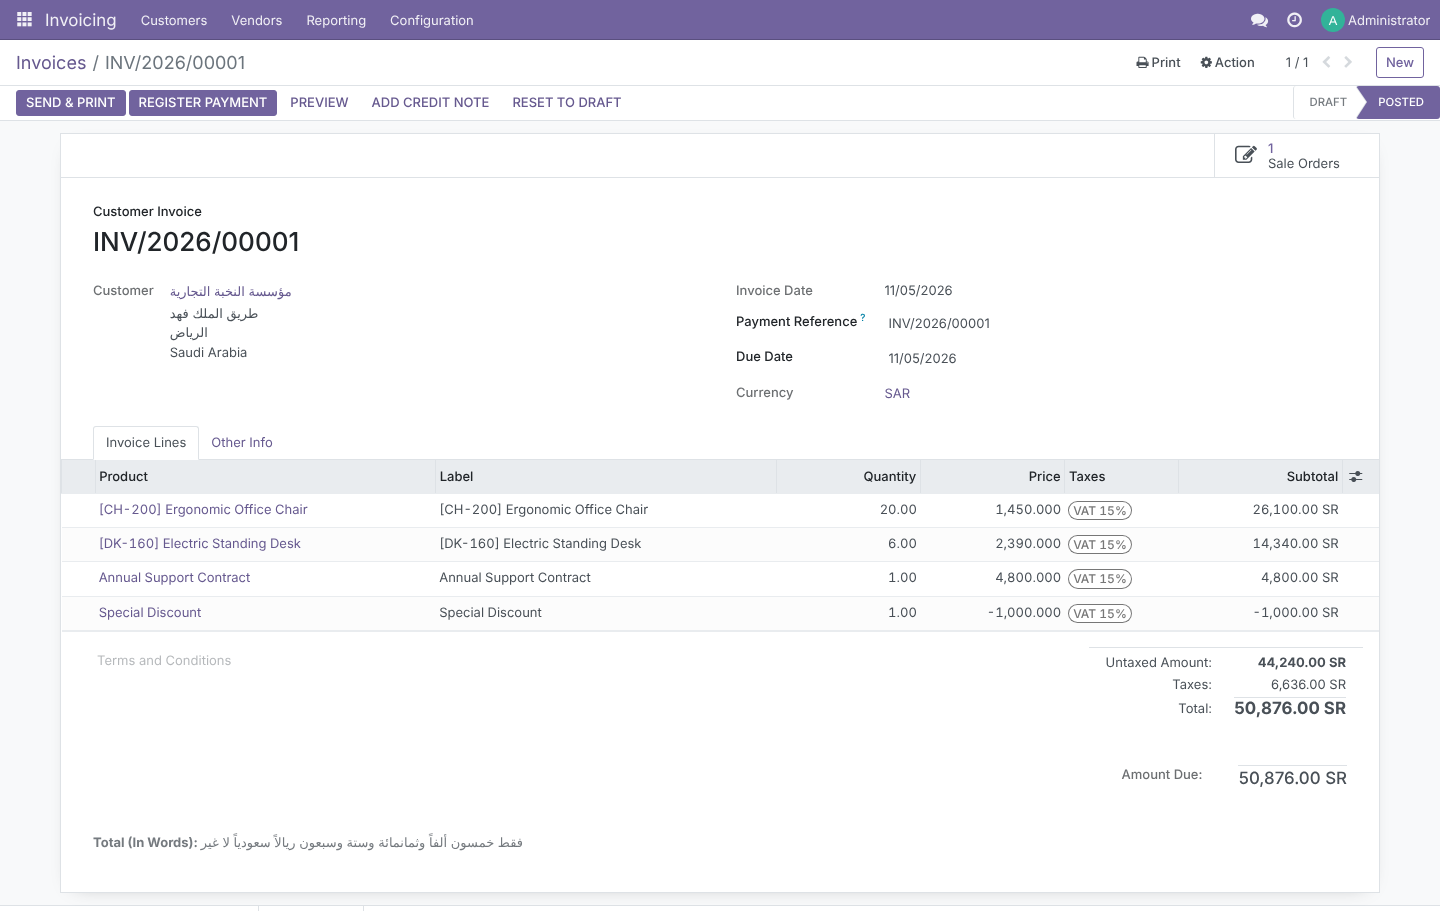
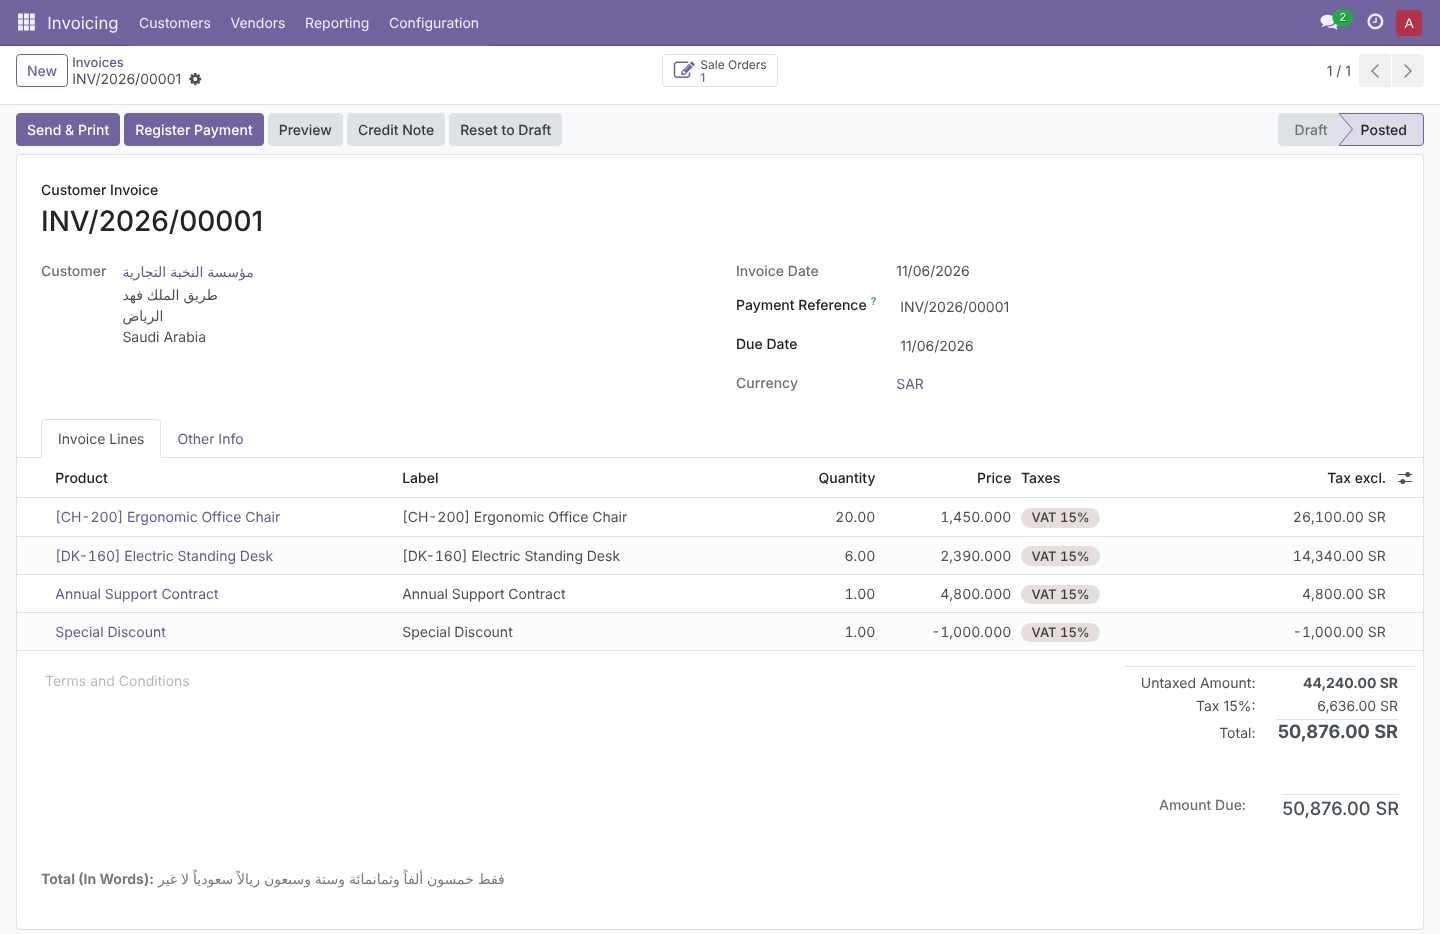
[MIG] amount_in_words_multilingual: migrate to Odoo 17.0
Claude-Session: https://claude.ai/code/session_0163j7pRaP16RF8QYfmxpBnW

diff --git a/amount_in_words_multilingual/static/description/index.html b/amount_in_words_multilingual/static/description/index.html
@@ -1,4 +1,4 @@
-<!-- Odoo Apps description page for amount_in_words_multilingual (Odoo 16.0). Inline styles only: apps.odoo.com strips <style> and <script> blocks. -->
+<!-- Odoo Apps description page for amount_in_words_multilingual (Odoo 17.0). Inline styles only: apps.odoo.com strips <style> and <script> blocks. -->
 <section style="max-width:1120px;margin:0 auto;padding:0 16px;font-family:-apple-system,BlinkMacSystemFont,'Segoe UI',Roboto,'Helvetica Neue',Arial,sans-serif;color:#2b2b33;">
 
 <!-- ============================== HERO ============================== -->
@@ -7,9 +7,9 @@
   <h1 style="font-size:40px;line-height:1.15;font-weight:700;margin:0 0 14px;color:#ffffff;">Amount in Words &ndash; English &amp; Arabic</h1>
   <p style="font-size:19px;line-height:1.55;max-width:760px;margin:0 0 24px;color:#ffffff;opacity:.95;">Every quotation, sales order and customer invoice shows its total spelled out in the customer&rsquo;s own language, on screen and on the PDF. Arabic follows real grammar: dual, plural and accusative forms, gender agreement and &ldquo;&#1601;&#1602;&#1591; &hellip; &#1604;&#1575; &#1594;&#1610;&#1585;&rdquo;.</p>
   <div>
-    <span style="display:inline-block;border:1px solid rgba(255,255,255,.7);border-radius:20px;padding:6px 14px;margin:0 8px 8px 0;font-size:14px;">Odoo 16.0</span>
+    <span style="display:inline-block;border:1px solid rgba(255,255,255,.7);border-radius:20px;padding:6px 14px;margin:0 8px 8px 0;font-size:14px;">Odoo 17.0</span>
     <span style="display:inline-block;border:1px solid rgba(255,255,255,.7);border-radius:20px;padding:6px 14px;margin:0 8px 8px 0;font-size:14px;">Community &amp; Enterprise</span>
-    <span style="display:inline-block;border:1px solid rgba(255,255,255,.7);border-radius:20px;padding:6px 14px;margin:0 8px 8px 0;font-size:14px;">33 automated tests</span>
+    <span style="display:inline-block;border:1px solid rgba(255,255,255,.7);border-radius:20px;padding:6px 14px;margin:0 8px 8px 0;font-size:14px;">35 automated tests</span>
     <span style="display:inline-block;border:1px solid rgba(255,255,255,.7);border-radius:20px;padding:6px 14px;margin:0 8px 8px 0;font-size:14px;">Arabic translation (ar_001)</span>
     <span style="display:inline-block;border:1px solid rgba(255,255,255,.7);border-radius:20px;padding:6px 14px;margin:0 8px 8px 0;font-size:14px;">Technical name: amount_in_words_multilingual</span>
     <span style="display:inline-block;border:1px solid rgba(255,255,255,.7);border-radius:20px;padding:6px 14px;margin:0 8px 8px 0;font-size:14px;">LGPL-3</span>
@@ -29,10 +29,10 @@
 <p style="font-size:16px;line-height:1.6;color:#555;margin:0 0 18px;">In Saudi Arabia and the wider Gulf, the total in words is expected on commercial documents, and Arabic customers expect it in correct Arabic, not a word-for-word translation.</p>
 <div style="display:flex;flex-wrap:wrap;margin:0 -10px;">
   <div style="flex:1 1 440px;margin:10px;border:1px solid #f1d6d6;background:#fff8f8;border-radius:14px;padding:24px 26px;">
-    <h3 style="font-size:19px;font-weight:700;color:#b33939;margin:0 0 12px;">In standard Odoo 16</h3>
+    <h3 style="font-size:19px;font-weight:700;color:#b33939;margin:0 0 12px;">In standard Odoo 17</h3>
     <ul style="font-size:15px;line-height:1.65;margin:0;padding-left:20px;color:#3a3a42;">
-      <li>The standard quotation, order and invoice forms and PDFs have <b>no total in words</b>.</li>
-      <li>The currency method <code>amount_to_text</code> follows the <b>logged-in user&rsquo;s language</b>, not the customer&rsquo;s.</li>
+      <li>Quotations and sales orders have <b>no total in words</b>; invoices only get a small printed line through <b>Total amount of invoice in letters</b>.</li>
+      <li>That line is <b>not shown on the invoice form</b>, so nobody checks it before the PDF goes out.</li>
       <li>It appends one fixed unit label, so Arabic gets <b>no dual, plural or accusative</b> forms (&#1585;&#1610;&#1575;&#1604;&#1575;&#1606; / &#1585;&#1610;&#1575;&#1604;&#1575;&#1578; / &#1585;&#1610;&#1575;&#1604;&#1575;&#1611;).</li>
       <li>Numbers do not agree with <b>feminine subunits</b> such as &#1607;&#1604;&#1604;&#1577; or &#1576;&#1610;&#1587;&#1577;.</li>
       <li>Adding it yourself means custom <b>QWeb and RTL styling</b> on two report templates.</li>
@@ -42,7 +42,7 @@
   <div style="flex:1 1 440px;margin:10px;border:1px solid #cfe7e7;background:#f4fbfb;border-radius:14px;padding:24px 26px;">
     <h3 style="font-size:19px;font-weight:700;color:#017E84;margin:0 0 12px;">With this module</h3>
     <ul style="font-size:15px;line-height:1.65;margin:0;padding-left:20px;color:#3a3a42;">
-      <li><b>Total (In Words)</b> under the totals of every sales order and customer invoice, on screen and on the PDF.</li>
+      <li><b>Total (In Words)</b> under the totals of every sales order and customer invoice, <b>on screen</b> and on the PDF.</li>
       <li>Language taken from the <b>customer&rsquo;s profile</b>, or forced to English or Arabic per company.</li>
       <li>Every currency has <b>singular, dual, plural and accusative</b> Arabic wording, editable on the currency.</li>
       <li>Full <b>gender agreement</b>: &#1579;&#1604;&#1575;&#1579;&#1577; &#1585;&#1610;&#1575;&#1604;&#1575;&#1578; but &#1579;&#1604;&#1575;&#1579; &#1607;&#1604;&#1604;&#1575;&#1578;, &#1573;&#1581;&#1583;&#1609; &#1593;&#1588;&#1585;&#1577; &#1607;&#1604;&#1604;&#1577;.</li>
@@ -64,7 +64,7 @@
 
 <!-- ============================== FEATURES ============================== -->
 <h2 style="font-size:28px;font-weight:700;margin:44px 0 6px;color:#2b2b33;">Features</h2>
-<p style="font-size:16px;line-height:1.6;color:#555;margin:0;">Screenshots come from an Odoo 16 Community database with demo data created for this page: the company <b>Al Noor Trading Co.</b> (Saudi riyal) sells office furniture to an English-speaking customer in Dammam, an Arabic-speaking customer in Riyadh, a Kuwaiti customer billed in dinars and a German customer billed in euros.</p>
+<p style="font-size:16px;line-height:1.6;color:#555;margin:0;">Screenshots come from an Odoo 17 Community database with demo data created for this page: the company <b>Al Noor Trading Co.</b> (Saudi riyal) sells office furniture to an English-speaking customer in Dammam, an Arabic-speaking customer in Riyadh, a Kuwaiti customer billed in dinars and a German customer billed in euros.</p>
 
 <div style="margin:44px 0 0;">
   <div style="font-size:13px;font-weight:700;color:#017E84;letter-spacing:1px;text-transform:uppercase;">Where to find it</div>
@@ -154,6 +154,13 @@
   <img src="aiw_11_settings.png" alt="Amount in Words block in the Invoicing settings" style="width:100%;max-width:1000px;border:1px solid #e1e1e6;border-radius:10px;box-shadow:0 6px 24px rgba(30,30,60,.10);"/>
 </div>
 
+<div style="margin:44px 0 0;">
+  <div style="font-size:13px;font-weight:700;color:#017E84;letter-spacing:1px;text-transform:uppercase;">New in the Odoo 17 version</div>
+  <h3 style="font-size:23px;font-weight:700;margin:4px 0 8px;">Works with Odoo 17&rsquo;s &ldquo;Total amount of invoice in letters&rdquo;</h3>
+  <p style="font-size:15px;line-height:1.6;color:#555;margin:0 0 14px;">Odoo 17 added its own <b>Total amount of invoice in letters</b> option under <b>Customer Invoices</b>. The module takes over that same field, so Odoo&rsquo;s line also prints the customer-language, grammatically correct text. When both options are on, the invoice shows the words <b>once</b>: the module&rsquo;s full-width band, and Odoo&rsquo;s line is hidden. Turn off <b>Print on Customer Invoices</b> and Odoo&rsquo;s own line comes back, still with the module&rsquo;s wording.</p>
+  <div style="background:#f4fbfb;border-left:4px solid #017E84;border-radius:8px;padding:16px 20px;font-size:15px;line-height:1.6;"><b>Layout:</b> in Odoo 17 the invoice totals sit in a narrow right-hand column, so the band is placed below that column, across the full width of the page, as shown in the Arabic invoice above.</div>
+</div>
+
 <!-- ============================== ARABIC GRAMMAR ============================== -->
 <h2 style="font-size:28px;font-weight:700;margin:48px 0 6px;color:#2b2b33;">Arabic, done properly</h2>
 <p style="font-size:16px;line-height:1.6;color:#555;margin:0 0 18px;">The counted noun (&#1575;&#1604;&#1578;&#1605;&#1610;&#1610;&#1586;) changes with the number. The module picks the form from the last two digits, exactly as a person would write it.</p>
@@ -209,16 +216,16 @@
 <h2 style="font-size:28px;font-weight:700;margin:48px 0 6px;color:#2b2b33;">Technical details</h2>
 <table style="width:100%;border-collapse:collapse;font-size:15px;margin-top:12px;table-layout:fixed;">
   <tbody>
-    <tr style="border-bottom:1px solid #eee;"><td style="padding:10px 14px;width:30%;color:#777;vertical-align:top;">Odoo version</td><td style="padding:10px 14px;overflow-wrap:anywhere;">16.0, Community and Enterprise (module version 16.0.1.0.0)</td></tr>
+    <tr style="border-bottom:1px solid #eee;"><td style="padding:10px 14px;width:30%;color:#777;vertical-align:top;">Odoo version</td><td style="padding:10px 14px;overflow-wrap:anywhere;">17.0, Community and Enterprise (module version 17.0.1.0.0)</td></tr>
     <tr style="border-bottom:1px solid #eee;background:#fafafa;"><td style="padding:10px 14px;width:30%;color:#777;vertical-align:top;">Depends on</td><td style="padding:10px 14px;overflow-wrap:anywhere;"><code>sale</code>, <code>account</code></td></tr>
     <tr style="border-bottom:1px solid #eee;"><td style="padding:10px 14px;width:30%;color:#777;vertical-align:top;">Python dependency</td><td style="padding:10px 14px;overflow-wrap:anywhere;">None. The English and Arabic engine is pure Python inside the module; other languages use <code>num2words</code>, which Odoo already requires.</td></tr>
     <tr style="border-bottom:1px solid #eee;background:#fafafa;"><td style="padding:10px 14px;width:30%;color:#777;vertical-align:top;">Menus</td><td style="padding:10px 14px;overflow-wrap:anywhere;">No new menus; a new tab on <b>Currencies</b> and a block on the order and invoice forms</td></tr>
     <tr style="border-bottom:1px solid #eee;"><td style="padding:10px 14px;width:30%;color:#777;vertical-align:top;">Settings</td><td style="padding:10px 14px;overflow-wrap:anywhere;">Invoicing &rsaquo; Configuration &rsaquo; Settings &rsaquo; Amount in Words</td></tr>
-    <tr style="border-bottom:1px solid #eee;background:#fafafa;"><td style="padding:10px 14px;width:30%;color:#777;vertical-align:top;">Reports</td><td style="padding:10px 14px;overflow-wrap:anywhere;">Inherits <code>sale.report_saleorder_document</code> and <code>account.report_invoice_document</code> (after <code>div#total</code>)</td></tr>
-    <tr style="border-bottom:1px solid #eee;"><td style="padding:10px 14px;width:30%;color:#777;vertical-align:top;">Models</td><td style="padding:10px 14px;overflow-wrap:anywhere;">New abstract <code>amount.words.mixin</code>; extends <code>sale.order</code>, <code>account.move</code>, <code>res.currency</code>, <code>res.company</code>, <code>res.config.settings</code></td></tr>
+    <tr style="border-bottom:1px solid #eee;background:#fafafa;"><td style="padding:10px 14px;width:30%;color:#777;vertical-align:top;">Reports</td><td style="padding:10px 14px;overflow-wrap:anywhere;">Inherits <code>sale.report_saleorder_document</code> (after <code>div#total</code>) and <code>account.report_invoice_document</code> (after <code>div#right-elements</code>; hides Odoo&rsquo;s own words line when the band is printed)</td></tr>
+    <tr style="border-bottom:1px solid #eee;"><td style="padding:10px 14px;width:30%;color:#777;vertical-align:top;">Models</td><td style="padding:10px 14px;overflow-wrap:anywhere;">New abstract <code>amount.words.mixin</code>; extends <code>sale.order</code>, <code>account.move</code> (replaces the computation of Odoo&rsquo;s own <code>amount_total_words</code>), <code>res.currency</code>, <code>res.company</code>, <code>res.config.settings</code></td></tr>
     <tr style="border-bottom:1px solid #eee;background:#fafafa;"><td style="padding:10px 14px;width:30%;color:#777;vertical-align:top;">Public method</td><td style="padding:10px 14px;overflow-wrap:anywhere;"><code>res.currency.amount_to_words_multilingual(amount, lang=None, wrap=True)</code>, usable from your own reports</td></tr>
     <tr style="border-bottom:1px solid #eee;"><td style="padding:10px 14px;width:30%;color:#777;vertical-align:top;">Translations</td><td style="padding:10px 14px;overflow-wrap:anywhere;">Arabic (<code>ar_001</code>), plus a <code>.pot</code> template</td></tr>
-    <tr style="border-bottom:1px solid #eee;background:#fafafa;"><td style="padding:10px 14px;width:30%;color:#777;vertical-align:top;">Automated tests</td><td style="padding:10px 14px;overflow-wrap:anywhere;">33 <code>TransactionCase</code> tests: 14 on the engine (English and Arabic grammar, rounding, 9 currencies, overrides, fallbacks) and 19 on documents (customer language, line and total discounts, tax-included prices, both cash-rounding strategies, credit notes, live form updates, rendered reports and the Arabic label)</td></tr>
+    <tr style="border-bottom:1px solid #eee;background:#fafafa;"><td style="padding:10px 14px;width:30%;color:#777;vertical-align:top;">Automated tests</td><td style="padding:10px 14px;overflow-wrap:anywhere;">35 <code>TransactionCase</code> tests: 14 on the engine (English and Arabic grammar, rounding, 9 currencies, overrides, fallbacks) and 21 on documents (customer language, line and total discounts, tax-included prices, both cash-rounding strategies, credit notes, live form updates, rendered reports, the Arabic label, and the interplay with Odoo 17&rsquo;s own words line)</td></tr>
     <tr style="border-bottom:1px solid #eee;"><td style="padding:10px 14px;width:30%;color:#777;vertical-align:top;">License</td><td style="padding:10px 14px;overflow-wrap:anywhere;">LGPL-3</td></tr>
   </tbody>
 </table>

diff --git a/amount_in_words_multilingual/tests/test_amount_words_documents.py b/amount_in_words_multilingual/tests/test_amount_words_documents.py
@@ -133,7 +133,8 @@ class TestAmountWordsDocuments(AccountTestInvoicingCommon):
         self.assertEqual(so.amount_total_words, 'فقط ريال سعودي واحد وثمانون هللة لا غير')
 
     def test_so_form_onchange_updates_words_live(self):
-        self.env.user.groups_id += self.env.ref('product.group_discount_per_so_line')
+        self.env.user.groups_id += self.env.ref('product.group_discount_per_so_line') \
+            + self.env.ref('product.group_product_pricelist')
         with Form(self.env['sale.order']) as so_form:
             so_form.partner_id = self.partner_ar
             so_form.pricelist_id = self.pricelist_sar
@@ -280,3 +281,26 @@ class TestAmountWordsDocuments(AccountTestInvoicingCommon):
         html = self._render('sale.action_report_saleorder', so_ar)
         self.assertIn('الإجمالي كتابةً:', html)
         self.assertNotIn('Total (In Words):', html)
+
+    # ------------------------------------------------------------------
+    # Odoo 17: standard "Total amount of invoice in letters" setting
+    # ------------------------------------------------------------------
+    def test_core_v17_field_uses_multilingual_engine(self):
+        inv = self._create_invoice(self.partner_ar, [{'price': 1000.0}])
+        self.assertEqual(inv._fields['amount_total_words'].string, 'Total (In Words)')
+        self.assertEqual(inv.amount_total_words, 'فقط ألف ومائة وخمسون ريالاً سعودياً لا غير')
+
+    def test_core_v17_letters_setting_not_printed_twice(self):
+        inv = self._create_invoice(self.partner_en, [{'price': 1000.0}])
+        inv.action_post()
+        words = 'One Thousand One Hundred and Fifty Saudi Riyals Only'
+        self.company.display_invoice_amount_total_words = True
+        # both enabled: our block only
+        html = self._render('account.account_invoices', inv)
+        self.assertEqual(html.count(words), 1)
+        self.assertNotIn('Total amount in words', html)
+        # ours disabled: Odoo's own line prints, with our wording
+        self.company.amount_words_on_invoice_report = False
+        html = self._render('account.account_invoices', inv)
+        self.assertEqual(html.count(words), 1)
+        self.assertIn('Total amount in words', html)

diff --git a/amount_in_words_multilingual/models/account_move.py b/amount_in_words_multilingual/models/account_move.py
@@ -1,10 +1,18 @@
 # -*- coding: utf-8 -*-
-from odoo import api, models
+from odoo import api, fields, models
 
 
 class AccountMove(models.Model):
     _name = 'account.move'
     _inherit = ['account.move', 'amount.words.mixin']
+
+    # Odoo 17 ships its own ``amount_total_words`` on account.move (printed by
+    # the "Total amount of invoice in letters" setting and by l10n_gcc_invoice).
+    # We keep the same field name and replace its computation, so every place
+    # that prints it gets the multilingual, grammatically correct text.
+    amount_total_words = fields.Char(
+        string='Total (In Words)', compute='_compute_amount_total_words',
+        help="Document total spelled out in the customer's language.")
 
     @api.depends(
         # totals
@@ -23,7 +31,7 @@ class AccountMove(models.Model):
         'company_id.amount_words_lang_mode', 'company_id.amount_words_wrap',
     )
     def _compute_amount_total_words(self):
-        return super()._compute_amount_total_words()
+        self._amount_words_compute()
 
     def _amount_words_get_amount(self):
         self.ensure_one()
@@ -31,8 +39,9 @@ class AccountMove(models.Model):
             return None
         # ``tax_totals`` is what the totals widget and the PDF display: it is
         # recomputed live from the invoice lines in the form (before journal
-        # items are synchronised) and carries the cash-rounded grand total.
+        # items are synchronised). In Odoo 17 its ``amount_total`` already
+        # includes the cash-rounding difference (both strategies).
         totals = self.tax_totals
         if totals and totals.get('amount_total') is not None:
-            return totals.get('amount_total_rounded', totals['amount_total'])
+            return totals['amount_total']
         return self.amount_total

diff --git a/amount_in_words_multilingual/models/amount_words_mixin.py b/amount_in_words_multilingual/models/amount_words_mixin.py
@@ -8,6 +8,11 @@ class AmountWordsMixin(models.AbstractModel):
     Inheriting models implement :meth:`_amount_words_get_amount` and declare
     the full ``@api.depends`` list on their own ``_compute_amount_total_words``
     override, so the text refreshes whenever any pricing element changes.
+
+    The overrides call :meth:`_amount_words_compute` directly instead of
+    ``super()``: since Odoo 17, ``account.move`` has its own
+    ``amount_total_words`` / ``_compute_amount_total_words`` (English-style
+    ``amount_to_text``), which sits before this mixin in the MRO.
     """
     _name = 'amount.words.mixin'
     _description = 'Amount in Words Mixin'
@@ -39,6 +44,9 @@ class AmountWordsMixin(models.AbstractModel):
 
     # --- compute ---------------------------------------------------------
     def _compute_amount_total_words(self):
+        self._amount_words_compute()
+
+    def _amount_words_compute(self):
         Currency = self.env['res.currency']
         for record in self:
             amount = record._amount_words_get_amount()

diff --git a/amount_in_words_multilingual/hooks.py b/amount_in_words_multilingual/hooks.py
@@ -1,9 +1,10 @@
 # -*- coding: utf-8 -*-
-from odoo import api, SUPERUSER_ID
 
 
-def post_init_hook(cr, registry):
-    """Seed the per-currency wording for every currency we know about."""
-    env = api.Environment(cr, SUPERUSER_ID, {})
+def post_init_hook(env):
+    """Seed the per-currency wording for every currency we know about.
+
+    Odoo 17 passes an Environment to install hooks (v16 passed cr, registry).
+    """
     currencies = env['res.currency'].with_context(active_test=False).search([])
     currencies._amount_words_seed_defaults()

diff --git a/amount_in_words_multilingual/__manifest__.py b/amount_in_words_multilingual/__manifest__.py
@@ -1,7 +1,7 @@
 # -*- coding: utf-8 -*-
 {
     'name': 'Amount in Words (English & Arabic)',
-    'version': '16.0.1.0.0',
+    'version': '17.0.1.0.0',
     'category': 'Accounting/Accounting',
     'summary': 'Total in words on Sales Orders and Customer Invoices, in the '
                'customer\'s language, with grammatically correct Arabic',

diff --git a/amount_in_words_multilingual/models/sale_order.py b/amount_in_words_multilingual/models/sale_order.py
@@ -19,4 +19,4 @@ class SaleOrder(models.Model):
         'company_id.amount_words_lang_mode', 'company_id.amount_words_wrap',
     )
     def _compute_amount_total_words(self):
-        return super()._compute_amount_total_words()
+        self._amount_words_compute()

diff --git a/README.md b/README.md
@@ -1,10 +1,10 @@
-# Amount in Words – English & Arabic (Odoo 16.0)
+# Amount in Words – English & Arabic (Odoo 17.0)
 
 ![Amount in Words](amount_in_words_multilingual/static/description/banner.png)
 
 Odoo module **`amount_in_words_multilingual`** — shows the total of every quotation, sales order and customer invoice spelled out in the **customer's language**, on screen and on the PDF. Arabic follows real grammar: dual, plural and accusative counted-noun forms, gender agreement and «فقط … لا غير».
 
-> This branch: **Odoo 16.0** · Community & Enterprise · License LGPL-3
+> This branch: **Odoo 17.0** · Community & Enterprise · License LGPL-3
 
 | Odoo version | Branch |
 |---|---|
@@ -27,7 +27,7 @@ Example: `SAR 1,235.50` → *One Thousand Two Hundred and Thirty-Five Saudi Riya
 
 ## Installation
 
-1. Copy the `amount_in_words_multilingual` folder into your addons path (or add this repository, branch `16.0`, on Odoo.sh).
+1. Copy the `amount_in_words_multilingual` folder into your addons path (or add this repository, branch `17.0`, on Odoo.sh).
 2. Update the Apps list and install **Amount in Words (English & Arabic)**.
 3. Depends only on `sale` and `account`.
 
@@ -45,13 +45,22 @@ currency.amount_to_words_multilingual(1235.5, lang='ar_001', wrap=True)
 
 Fields: `amount_total_words`, `amount_total_words_lang`, `amount_total_words_rtl` on `sale.order` and `account.move` (abstract model `amount.words.mixin`).
 
+## Odoo 17 notes
+
+- Odoo 17 added its own `amount_total_words` field on invoices (printed by **Settings › Invoicing › Total amount of invoice in letters**). This module keeps that field name and replaces its computation, so Odoo's own line also prints the customer-language text. When both are enabled, the words are printed **once** (the module's band; Odoo's line is hidden).
+- On the invoice PDF the band is placed after `div#right-elements` (full width), because in v17 the totals sit in a narrow right-hand column.
+
 ## Tests
 
-33 `TransactionCase` tests (engine grammar, rounding, currencies, discounts, taxes, cash rounding, credit notes, live form updates, rendered reports, Arabic label):
+35 `TransactionCase` tests (engine grammar, rounding, currencies, discounts, taxes, cash rounding, credit notes, live form updates, rendered reports, Arabic label):
 
 ```bash
 odoo-bin -d <db> -i amount_in_words_multilingual --test-enable --test-tags /amount_in_words_multilingual --stop-after-init
 ```
+
+## Known limitations
+
+- **`l10n_gcc_invoice`** (GCC bilingual invoice layout) prints `amount_total_words` under an English label. With this module that line follows the customer's language, so an Arabic customer sees Arabic text there. Not yet adapted.
 
 ## Author & support
 
